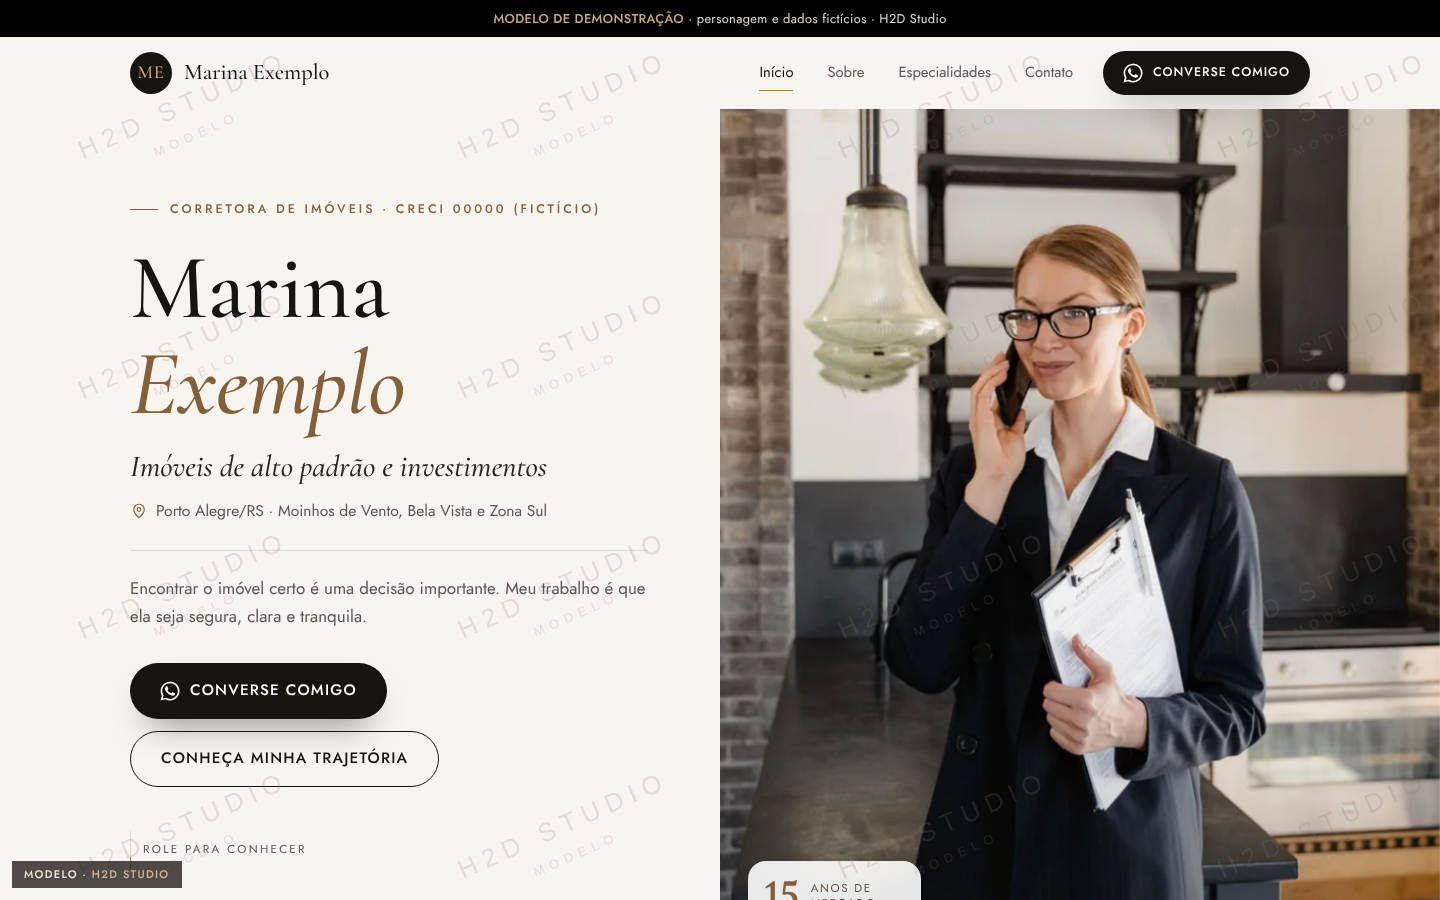
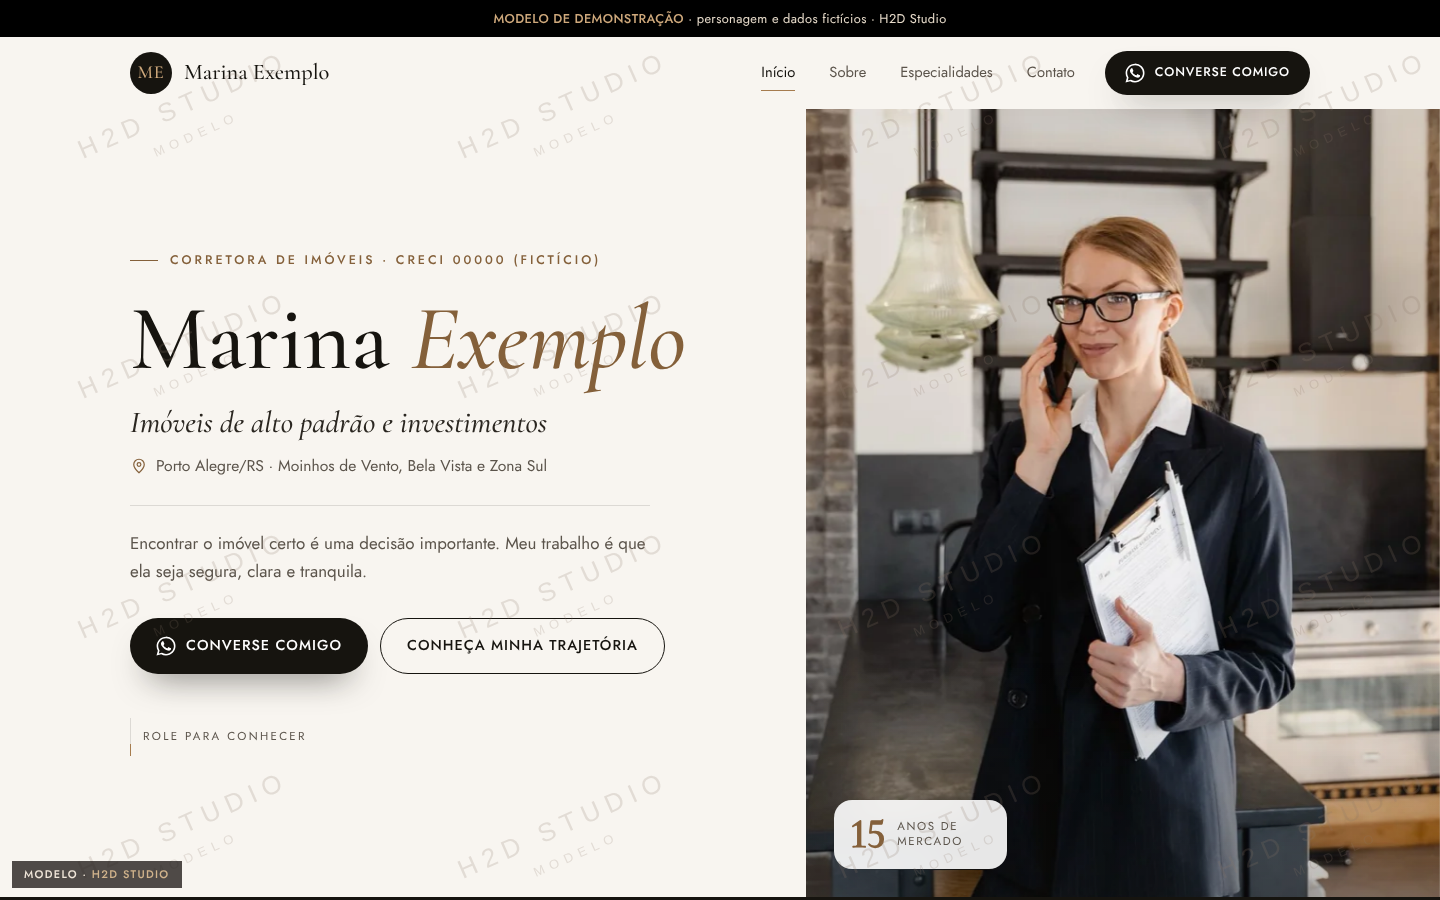
Modelo corretor v2: ajustes da abertura
Claude-Session: https://claude.ai/code/session_017GNkFdkSh77EYLwkQoDDE5

diff --git a/modelo-corretor/index.html b/modelo-corretor/index.html
@@ -47,7 +47,7 @@ em{font-style:italic;color:var(--bronzeT)}
 .sec{padding:clamp(76px,10vw,128px) 0}
 .dark{background:var(--ink);color:#f3ece2}
 .dark em{color:var(--bronze2)}.dark .k{color:var(--bronze2)}
-.btn{position:relative;overflow:hidden;display:inline-flex;align-items:center;justify-content:center;gap:10px;min-height:56px;padding:14px 30px;border-radius:999px;font-weight:500;font-size:.95rem;letter-spacing:.08em;text-transform:uppercase;transition:transform .3s var(--ease),background .3s,box-shadow .3s,border-color .3s,color .3s}
+.btn{position:relative;overflow:hidden;display:inline-flex;align-items:center;justify-content:center;gap:10px;min-height:56px;padding:14px 26px;border-radius:999px;font-weight:500;font-size:.9rem;letter-spacing:.07em;text-transform:uppercase;transition:transform .3s var(--ease),background .3s,box-shadow .3s,border-color .3s,color .3s}
 .btn svg{width:20px;height:20px;flex:none;fill:none;stroke:currentColor;stroke-width:1.6;stroke-linecap:round;stroke-linejoin:round}
 .btn svg use[href="#wa"]{fill:currentColor;stroke:none}
 .btn-b{background:var(--ink);color:#fff;box-shadow:0 18px 34px -18px rgba(22,20,15,.7)}
@@ -95,7 +95,7 @@ a:focus-visible,button:focus-visible,label:focus-visible,[tabindex]:focus-visibl
 }
 
 /* abertura */
-.hero{display:grid;grid-template-columns:minmax(0,1fr) minmax(0,1fr);min-height:min(800px,calc(100svh - var(--hh) - 34px));background:var(--paper)}
+.hero{display:grid;grid-template-columns:minmax(0,1.12fr) minmax(0,.88fr);min-height:min(800px,calc(100svh - var(--hh) - 40px));background:var(--paper)}
 .hero-t{display:flex;flex-direction:column;justify-content:center;padding:clamp(48px,7vw,90px) clamp(36px,5vw,72px) clamp(48px,7vw,90px) max(20px,calc((100vw - 1180px)/2))}
 .hero h1{font-size:clamp(3.2rem,6.4vw,6rem);margin:20px 0 18px;overflow-wrap:anywhere}
 .hero .esp1{font-family:var(--s);font-style:italic;font-size:clamp(1.45rem,2.3vw,1.9rem);line-height:1.2;color:var(--ink2)}

diff --git a/modelo-corretor/modelo-site-corretor.html b/modelo-corretor/modelo-site-corretor.html
@@ -44,7 +44,7 @@ em{font-style:italic;color:var(--bronzeT)}
 .sec{padding:clamp(76px,10vw,128px) 0}
 .dark{background:var(--ink);color:#f3ece2}
 .dark em{color:var(--bronze2)}.dark .k{color:var(--bronze2)}
-.btn{position:relative;overflow:hidden;display:inline-flex;align-items:center;justify-content:center;gap:10px;min-height:56px;padding:14px 30px;border-radius:999px;font-weight:500;font-size:.95rem;letter-spacing:.08em;text-transform:uppercase;transition:transform .3s var(--ease),background .3s,box-shadow .3s,border-color .3s,color .3s}
+.btn{position:relative;overflow:hidden;display:inline-flex;align-items:center;justify-content:center;gap:10px;min-height:56px;padding:14px 26px;border-radius:999px;font-weight:500;font-size:.9rem;letter-spacing:.07em;text-transform:uppercase;transition:transform .3s var(--ease),background .3s,box-shadow .3s,border-color .3s,color .3s}
 .btn svg{width:20px;height:20px;flex:none;fill:none;stroke:currentColor;stroke-width:1.6;stroke-linecap:round;stroke-linejoin:round}
 .btn svg use[href="#wa"]{fill:currentColor;stroke:none}
 .btn-b{background:var(--ink);color:#fff;box-shadow:0 18px 34px -18px rgba(22,20,15,.7)}
@@ -92,7 +92,7 @@ a:focus-visible,button:focus-visible,label:focus-visible,[tabindex]:focus-visibl
 }
 
 /* abertura */
-.hero{display:grid;grid-template-columns:minmax(0,1fr) minmax(0,1fr);min-height:min(800px,calc(100svh - var(--hh) - 34px));background:var(--paper)}
+.hero{display:grid;grid-template-columns:minmax(0,1.12fr) minmax(0,.88fr);min-height:min(800px,calc(100svh - var(--hh) - 40px));background:var(--paper)}
 .hero-t{display:flex;flex-direction:column;justify-content:center;padding:clamp(48px,7vw,90px) clamp(36px,5vw,72px) clamp(48px,7vw,90px) max(20px,calc((100vw - 1180px)/2))}
 .hero h1{font-size:clamp(3.2rem,6.4vw,6rem);margin:20px 0 18px;overflow-wrap:anywhere}
 .hero .esp1{font-family:var(--s);font-style:italic;font-size:clamp(1.45rem,2.3vw,1.9rem);line-height:1.2;color:var(--ink2)}

diff --git a/modelo-corretor/template.html b/modelo-corretor/template.html
@@ -47,7 +47,7 @@ em{font-style:italic;color:var(--bronzeT)}
 .sec{padding:clamp(76px,10vw,128px) 0}
 .dark{background:var(--ink);color:#f3ece2}
 .dark em{color:var(--bronze2)}.dark .k{color:var(--bronze2)}
-.btn{position:relative;overflow:hidden;display:inline-flex;align-items:center;justify-content:center;gap:10px;min-height:56px;padding:14px 30px;border-radius:999px;font-weight:500;font-size:.95rem;letter-spacing:.08em;text-transform:uppercase;transition:transform .3s var(--ease),background .3s,box-shadow .3s,border-color .3s,color .3s}
+.btn{position:relative;overflow:hidden;display:inline-flex;align-items:center;justify-content:center;gap:10px;min-height:56px;padding:14px 26px;border-radius:999px;font-weight:500;font-size:.9rem;letter-spacing:.07em;text-transform:uppercase;transition:transform .3s var(--ease),background .3s,box-shadow .3s,border-color .3s,color .3s}
 .btn svg{width:20px;height:20px;flex:none;fill:none;stroke:currentColor;stroke-width:1.6;stroke-linecap:round;stroke-linejoin:round}
 .btn svg use[href="#wa"]{fill:currentColor;stroke:none}
 .btn-b{background:var(--ink);color:#fff;box-shadow:0 18px 34px -18px rgba(22,20,15,.7)}
@@ -95,7 +95,7 @@ a:focus-visible,button:focus-visible,label:focus-visible,[tabindex]:focus-visibl
 }
 
 /* abertura */
-.hero{display:grid;grid-template-columns:minmax(0,1fr) minmax(0,1fr);min-height:min(800px,calc(100svh - var(--hh) - 34px));background:var(--paper)}
+.hero{display:grid;grid-template-columns:minmax(0,1.12fr) minmax(0,.88fr);min-height:min(800px,calc(100svh - var(--hh) - 40px));background:var(--paper)}
 .hero-t{display:flex;flex-direction:column;justify-content:center;padding:clamp(48px,7vw,90px) clamp(36px,5vw,72px) clamp(48px,7vw,90px) max(20px,calc((100vw - 1180px)/2))}
 .hero h1{font-size:clamp(3.2rem,6.4vw,6rem);margin:20px 0 18px;overflow-wrap:anywhere}
 .hero .esp1{font-family:var(--s);font-style:italic;font-size:clamp(1.45rem,2.3vw,1.9rem);line-height:1.2;color:var(--ink2)}
